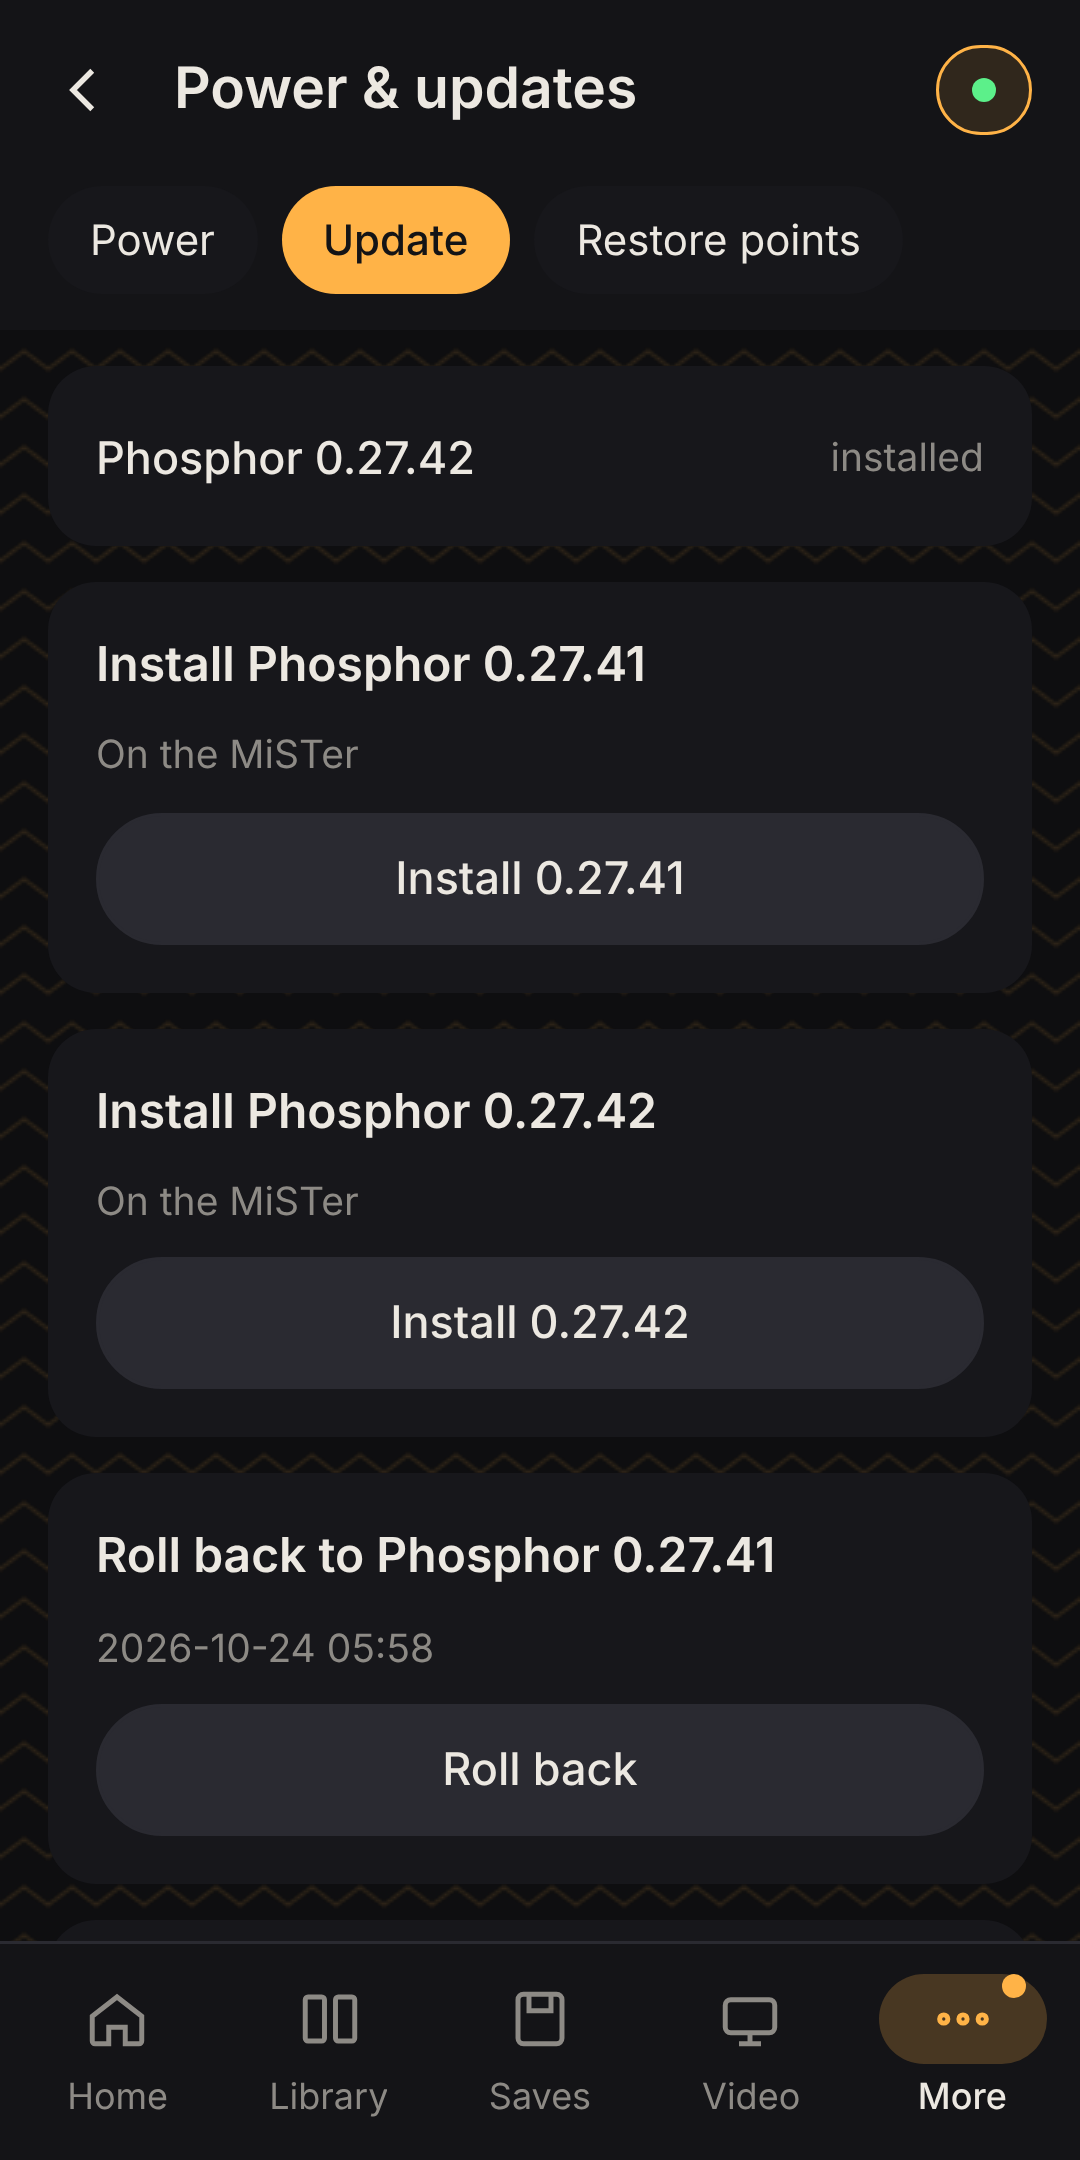
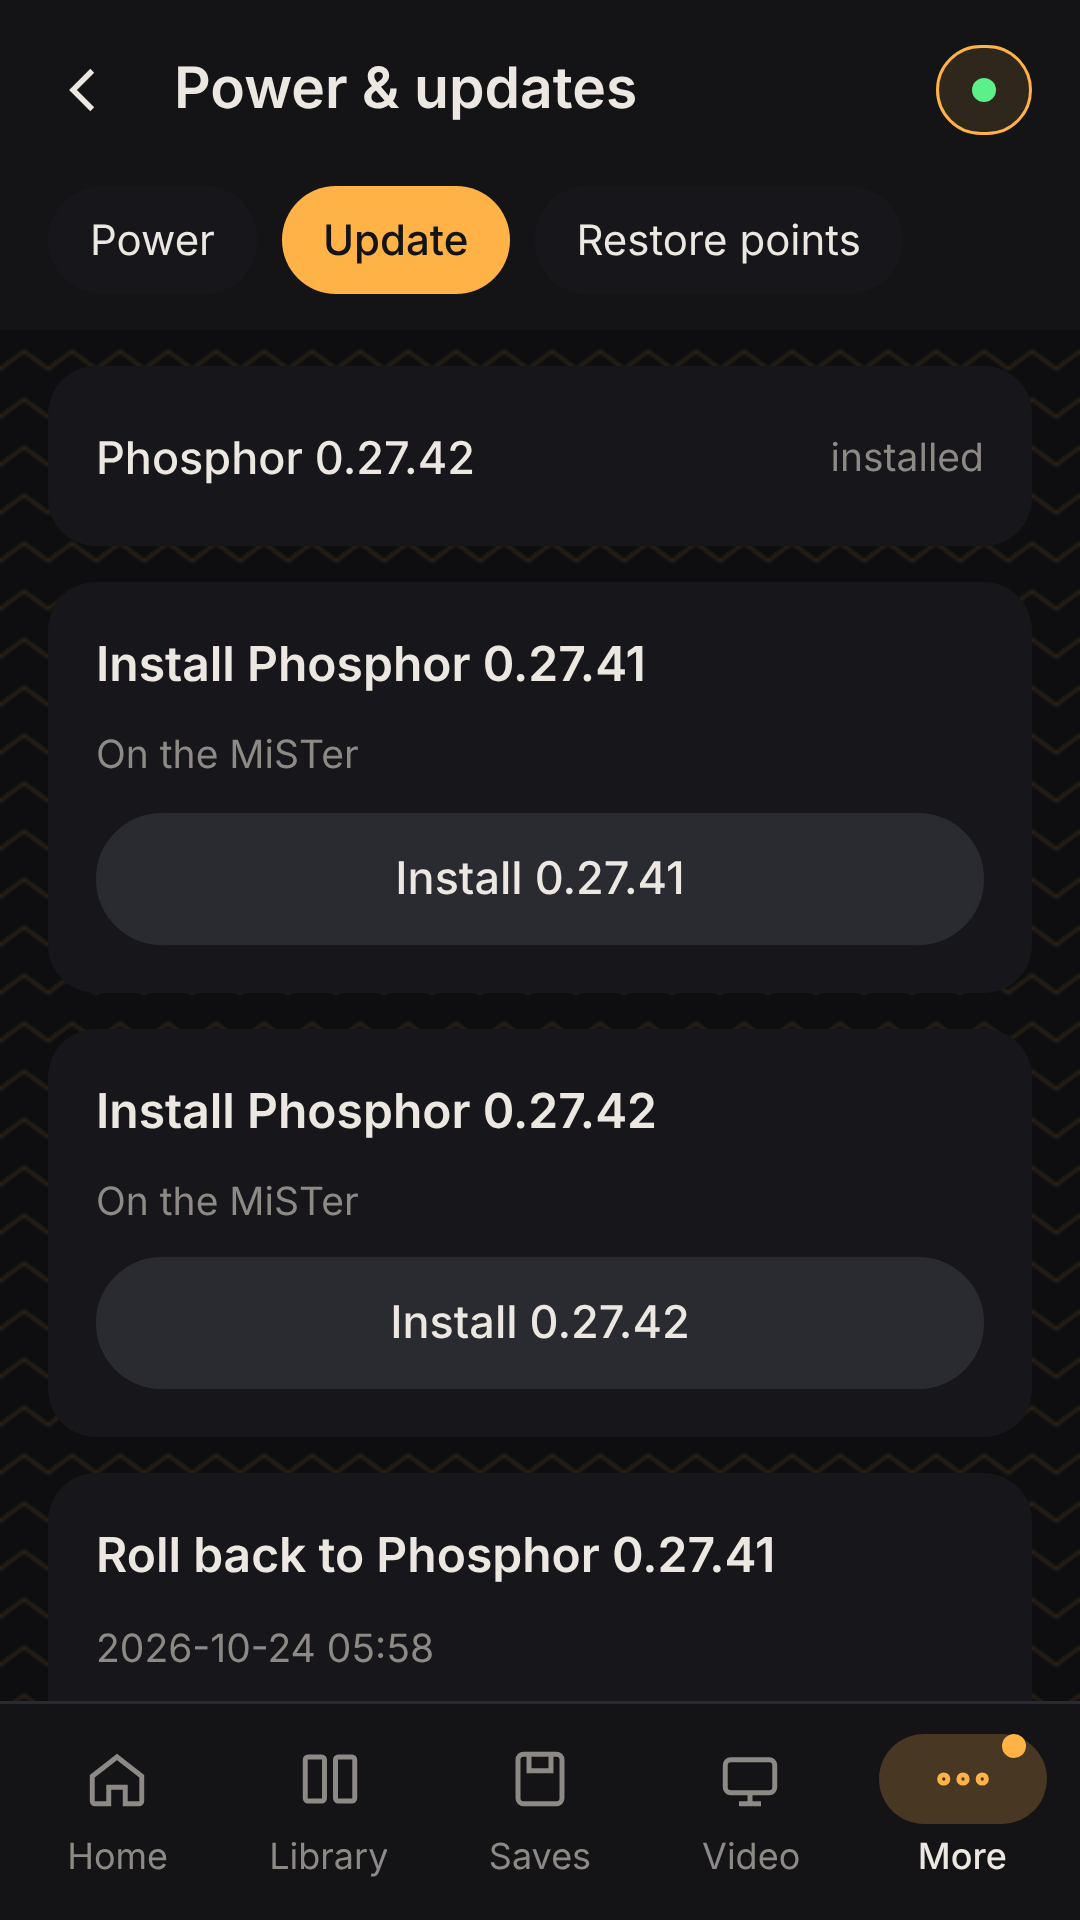
Phosphor for Android Play listing: phone screenshots at 1080x1920 (Play takes 9:16 only)

diff --git a/apps/android/webtest/screens.js b/apps/android/webtest/screens.js
@@ -1,5 +1,5 @@
 // Screenshots of every screen of the app's page (assets/web), with replies the SS1 really gave (fx/) behind a stand-in PhosNative.
-// cd apps/android && ./gradlew preBuild && node webtest/screens.js   (W=360 Z=1.35: a narrow phone with large text; TRY=1 MORE=1 extras) ; Play Store: W=360 H=720 DPR=3 FULL=0 TAG=-play
+// cd apps/android && ./gradlew preBuild && node webtest/screens.js   (W=360 Z=1.35: a narrow phone with large text; TRY=1 MORE=1 extras) ; Play Store: W=360 H=640 DPR=3 FULL=0 TAG=-play
 // Copyright (C) 2026 f3bandit. PolyForm Noncommercial 1.0.0 (see LICENSE.md).
 const { chromium } = require(process.env.PLAYWRIGHT || "playwright");
 const fs = require("fs"), path = require("path"), http = require("http");
@@ -56,7 +56,7 @@ window.PhosNative = {
 	await new Promise(r => srv.listen(8099, r));
 	const b = await chromium.launch();
 	const W = Number(process.env.W || 390), Z = Number(process.env.Z || 1);
-	const H = Number(process.env.H || 844), DPR = Number(process.env.DPR || 2), FULL = process.env.FULL !== "0";   // (Play Store shots: W=360 H=720 DPR=3 FULL=0, 1080x2160)
+	const H = Number(process.env.H || 844), DPR = Number(process.env.DPR || 2), FULL = process.env.FULL !== "0";   // (Play Store shots: W=360 H=640 DPR=3 FULL=0, 1080x2160)
 	const ctx = await b.newContext({ viewport: { width: W, height: H }, deviceScaleFactor: DPR });
 	await ctx.addInitScript(mock(fx));
 	if (Z !== 1) await ctx.addInitScript(`document.addEventListener("DOMContentLoaded",()=>{document.documentElement.style.fontSize="${Z * 100}%";document.body.style.zoom="${Z}"})`);

diff --git a/apps/android/play/PLAY_STORE.md b/apps/android/play/PLAY_STORE.md
@@ -56,8 +56,8 @@ Phosphor OS is an unofficial, independent project by F3 Digital Systems. It is n
 - App icon: `graphics/icon-512.png` (512×512)
 - Feature graphic: `graphics/feature-graphic-1024x500.png`
 - Phone screenshots (in this order): `phone-1-home.png`, `phone-2-library.png`, `phone-3-video.png`,
-  `phone-4-saves_cards.png`, `phone-5-power_update.png`, `phone-6-boxart_sources.png` (1080×2160; made with
-  `W=360 H=720 DPR=3 FULL=0 TAG=-play node webtest/screens.js`, no real box art in them)
+  `phone-4-saves_cards.png`, `phone-5-power_update.png`, `phone-6-boxart_sources.png` (1080×1920, 9:16 as Play requires; made with
+  `W=360 H=640 DPR=3 FULL=0 TAG=-play node webtest/screens.js`, no real box art in them)
 
 ---
 
